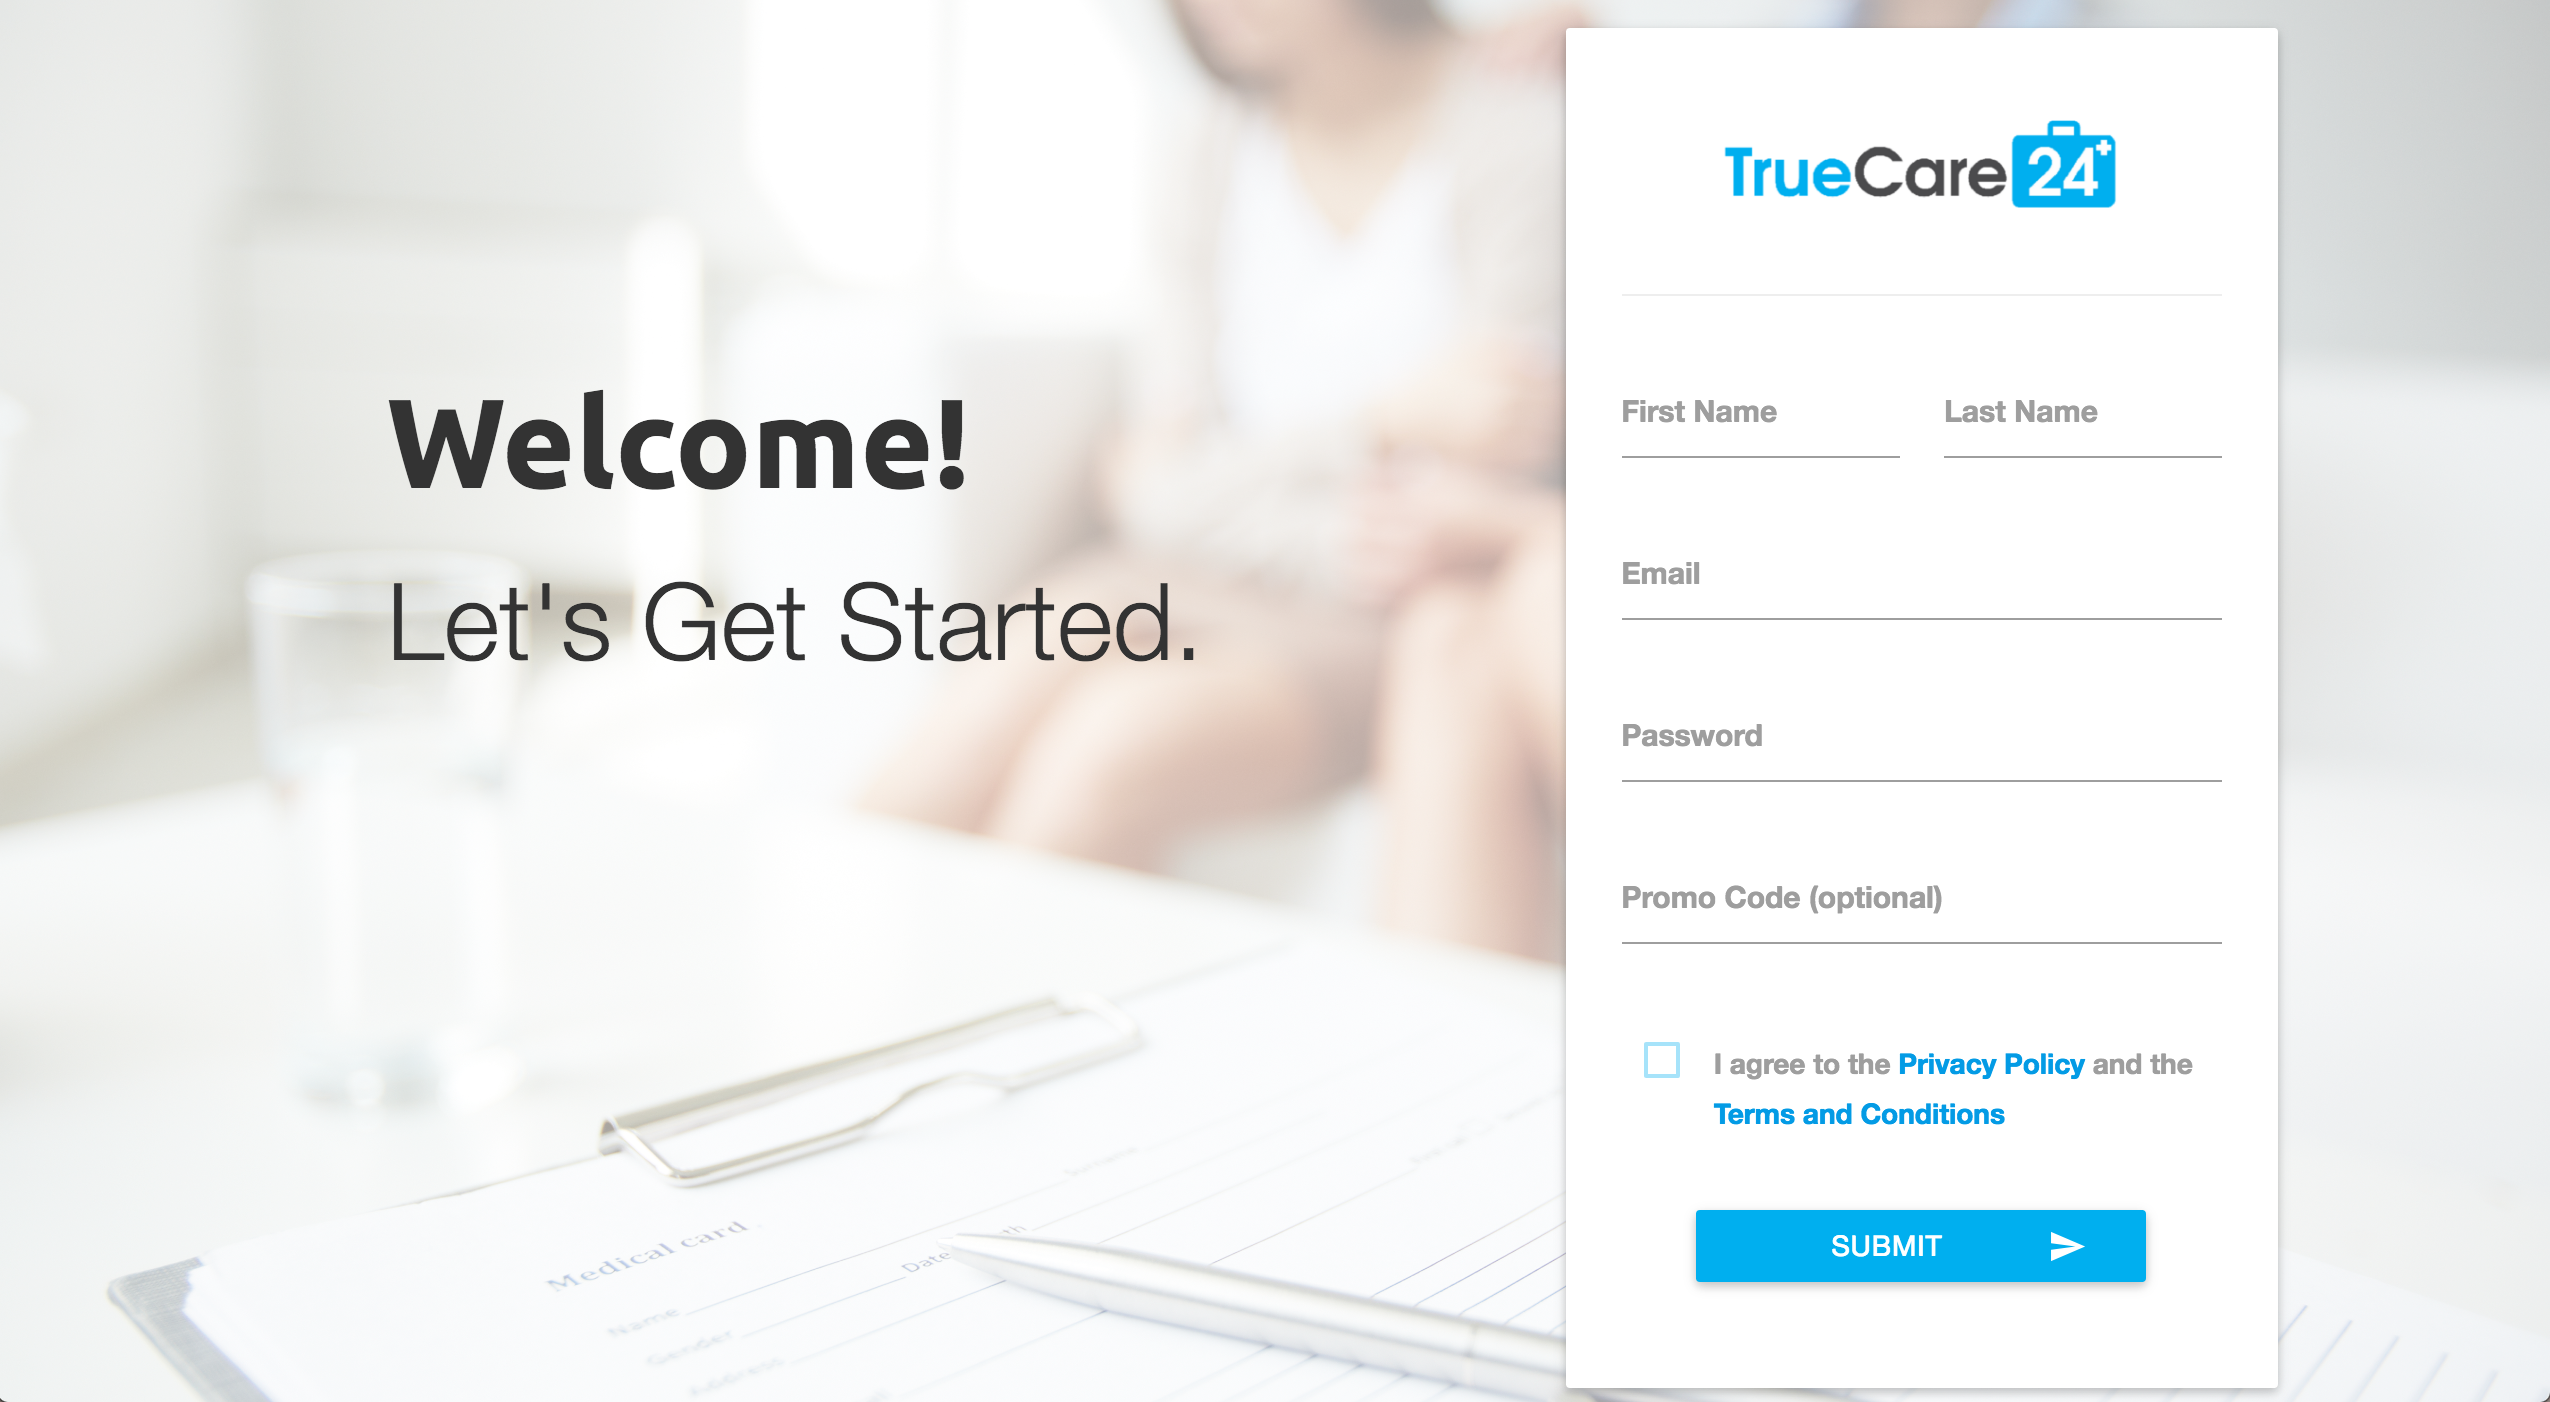
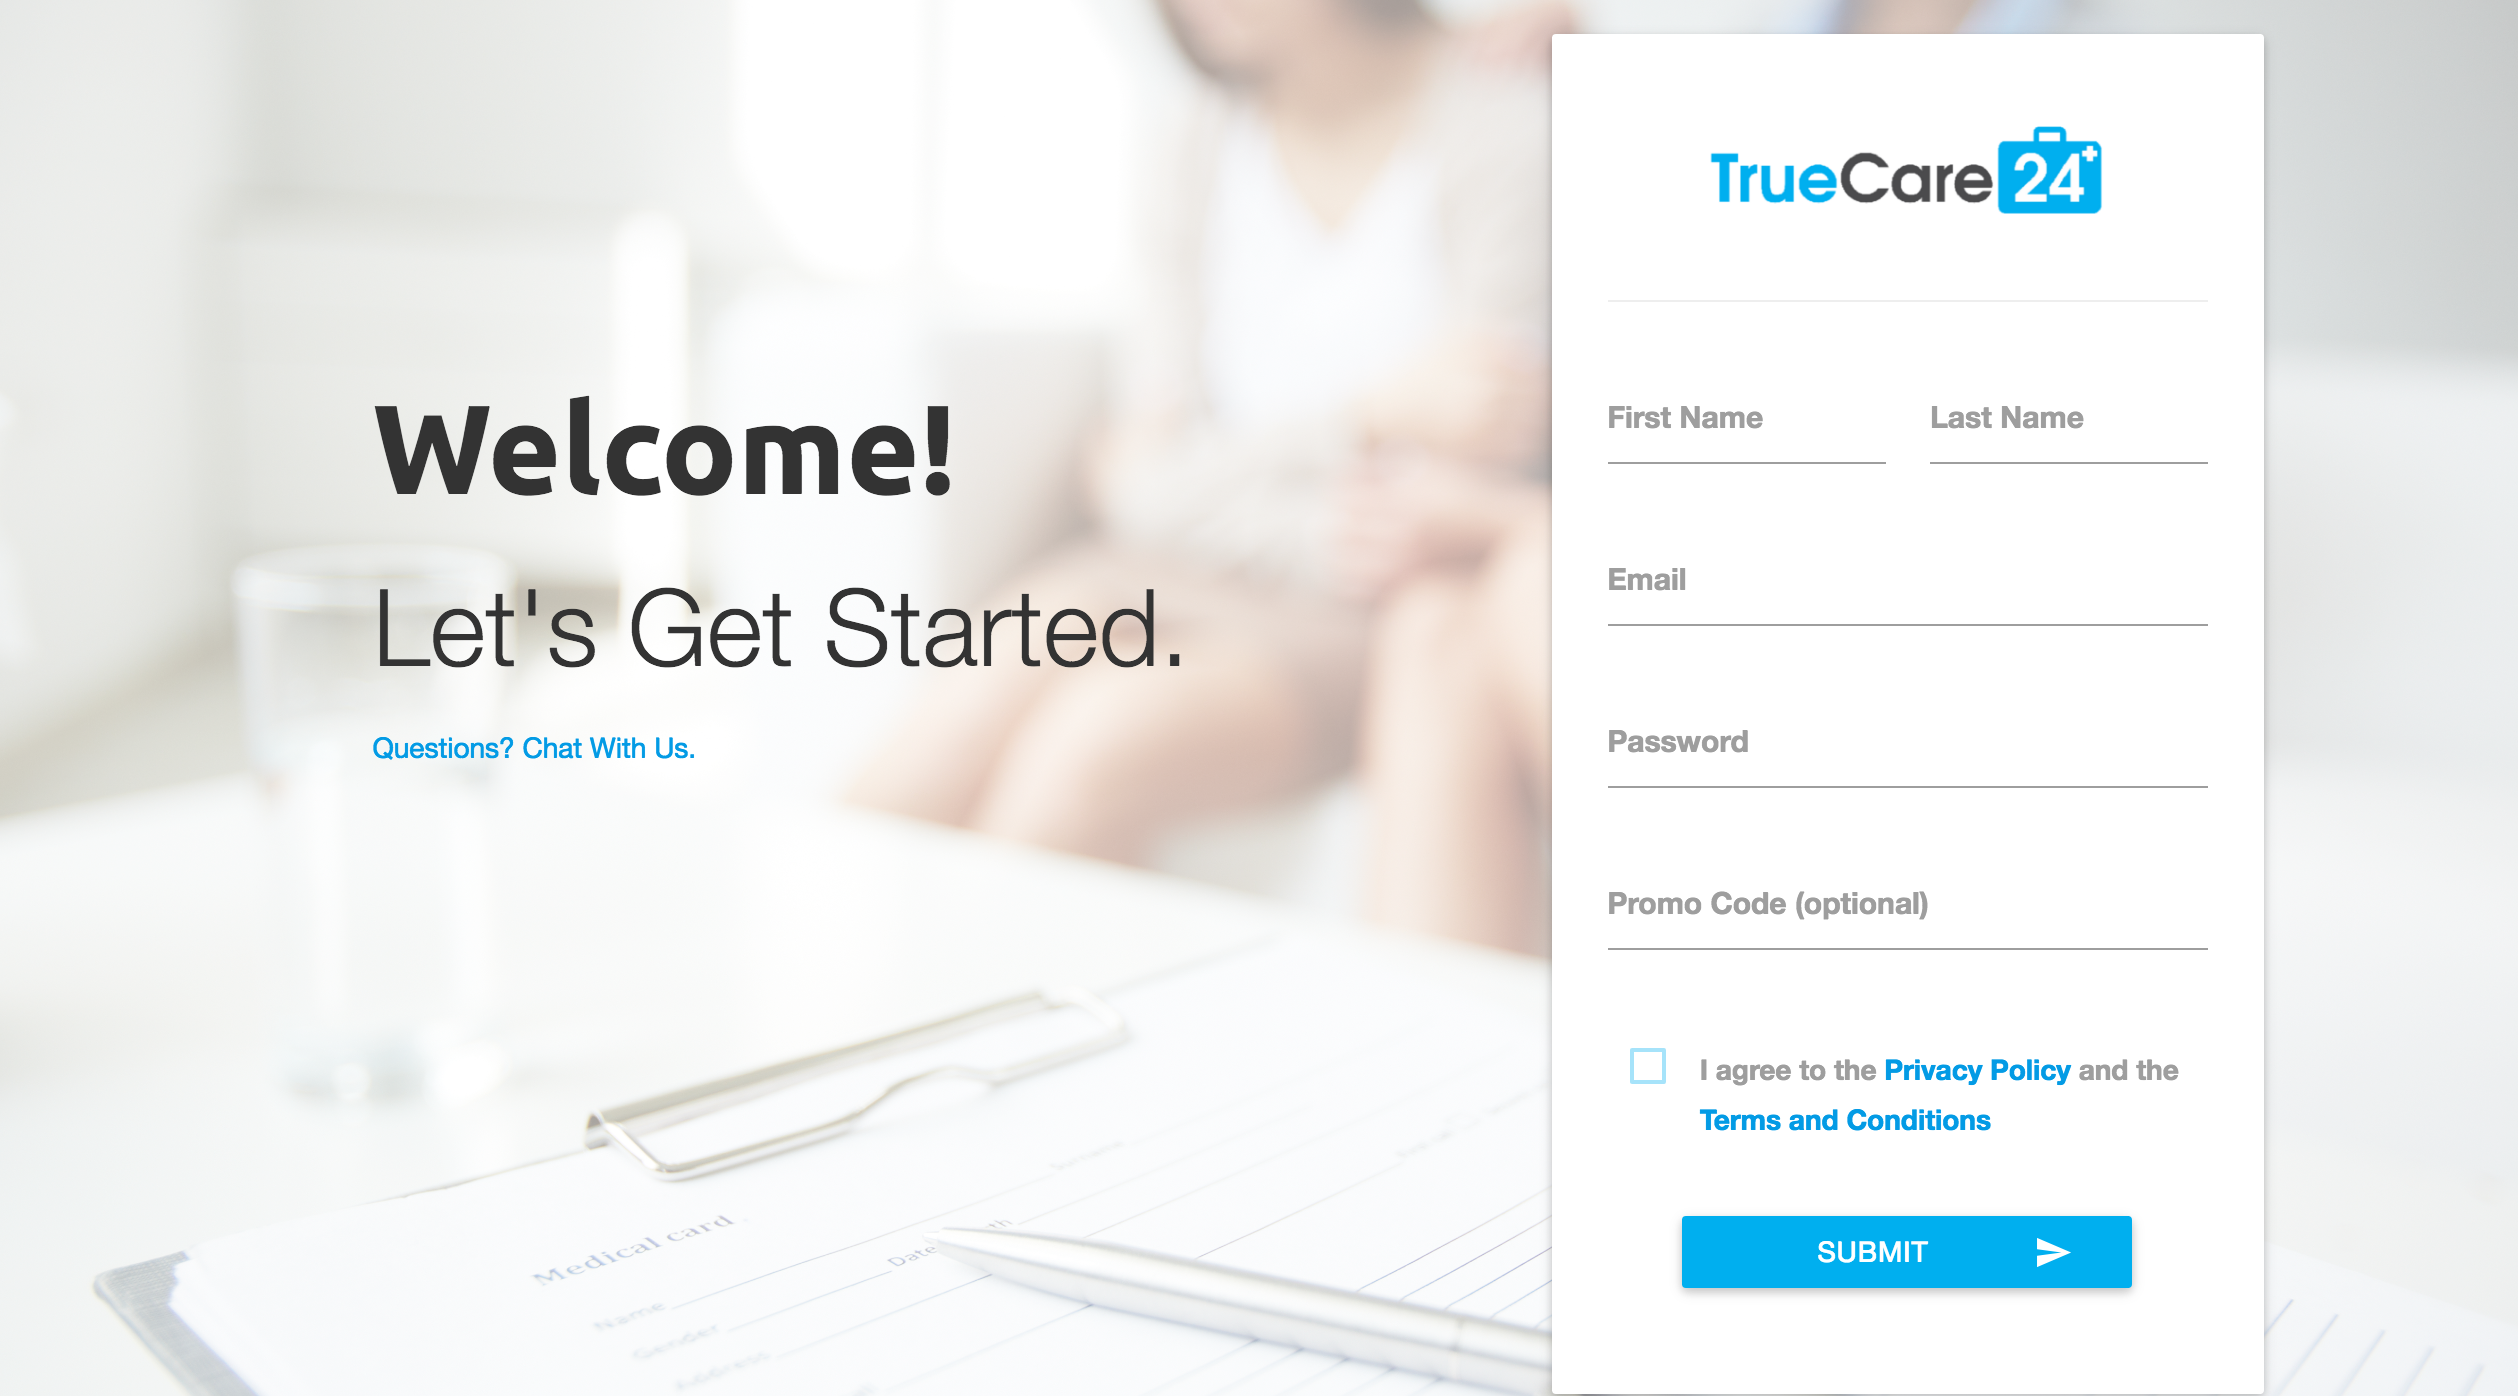
updated readme

diff --git a/README.md b/README.md
@@ -1,17 +1,17 @@
-TrueCare24 Optimizing Sign Up Page
-
 [TrueCare24 Sign Up Page](https://www.bitballoon.com/sites/radiologist-kangaroo-25411)
 
+*Original
 ![Original](/assets/original-signup.png)
 
+*First Optimization
 ![Optimized](/assets/new-signup.png)
 
 **Note
 
-1. It is better to share to social media after user has signed up, or on Home Page rather than right at Sign Up.
+1. I think it is better to have the share to social media functionality after user has signed up, or on Home Page rather than right at Sign Up.
 
-2. I excluded Facebook Authorization because this is HealthCare. Users who sign up for healthcare does not want to be connected with their FaceBook.
+2. Since this is healthcare, users who sign up for healthcare tend to shy away from any connections with FaceBook. I excluded the facebook OAuth on this page.
 
 3. Including the First Name and Last Name saves time when user signs up and proceeds to "Complete Your Profile." According to LinkedIn, progress encourages users to finish their profile. 20% progress with names filled is better than 0.
 
-4. The "Chat With Us" Would open a dialogue modal to assist customers who need help. 
+4. The "Chat With Us" Would open a dialogue modal to assist customers who need help.
